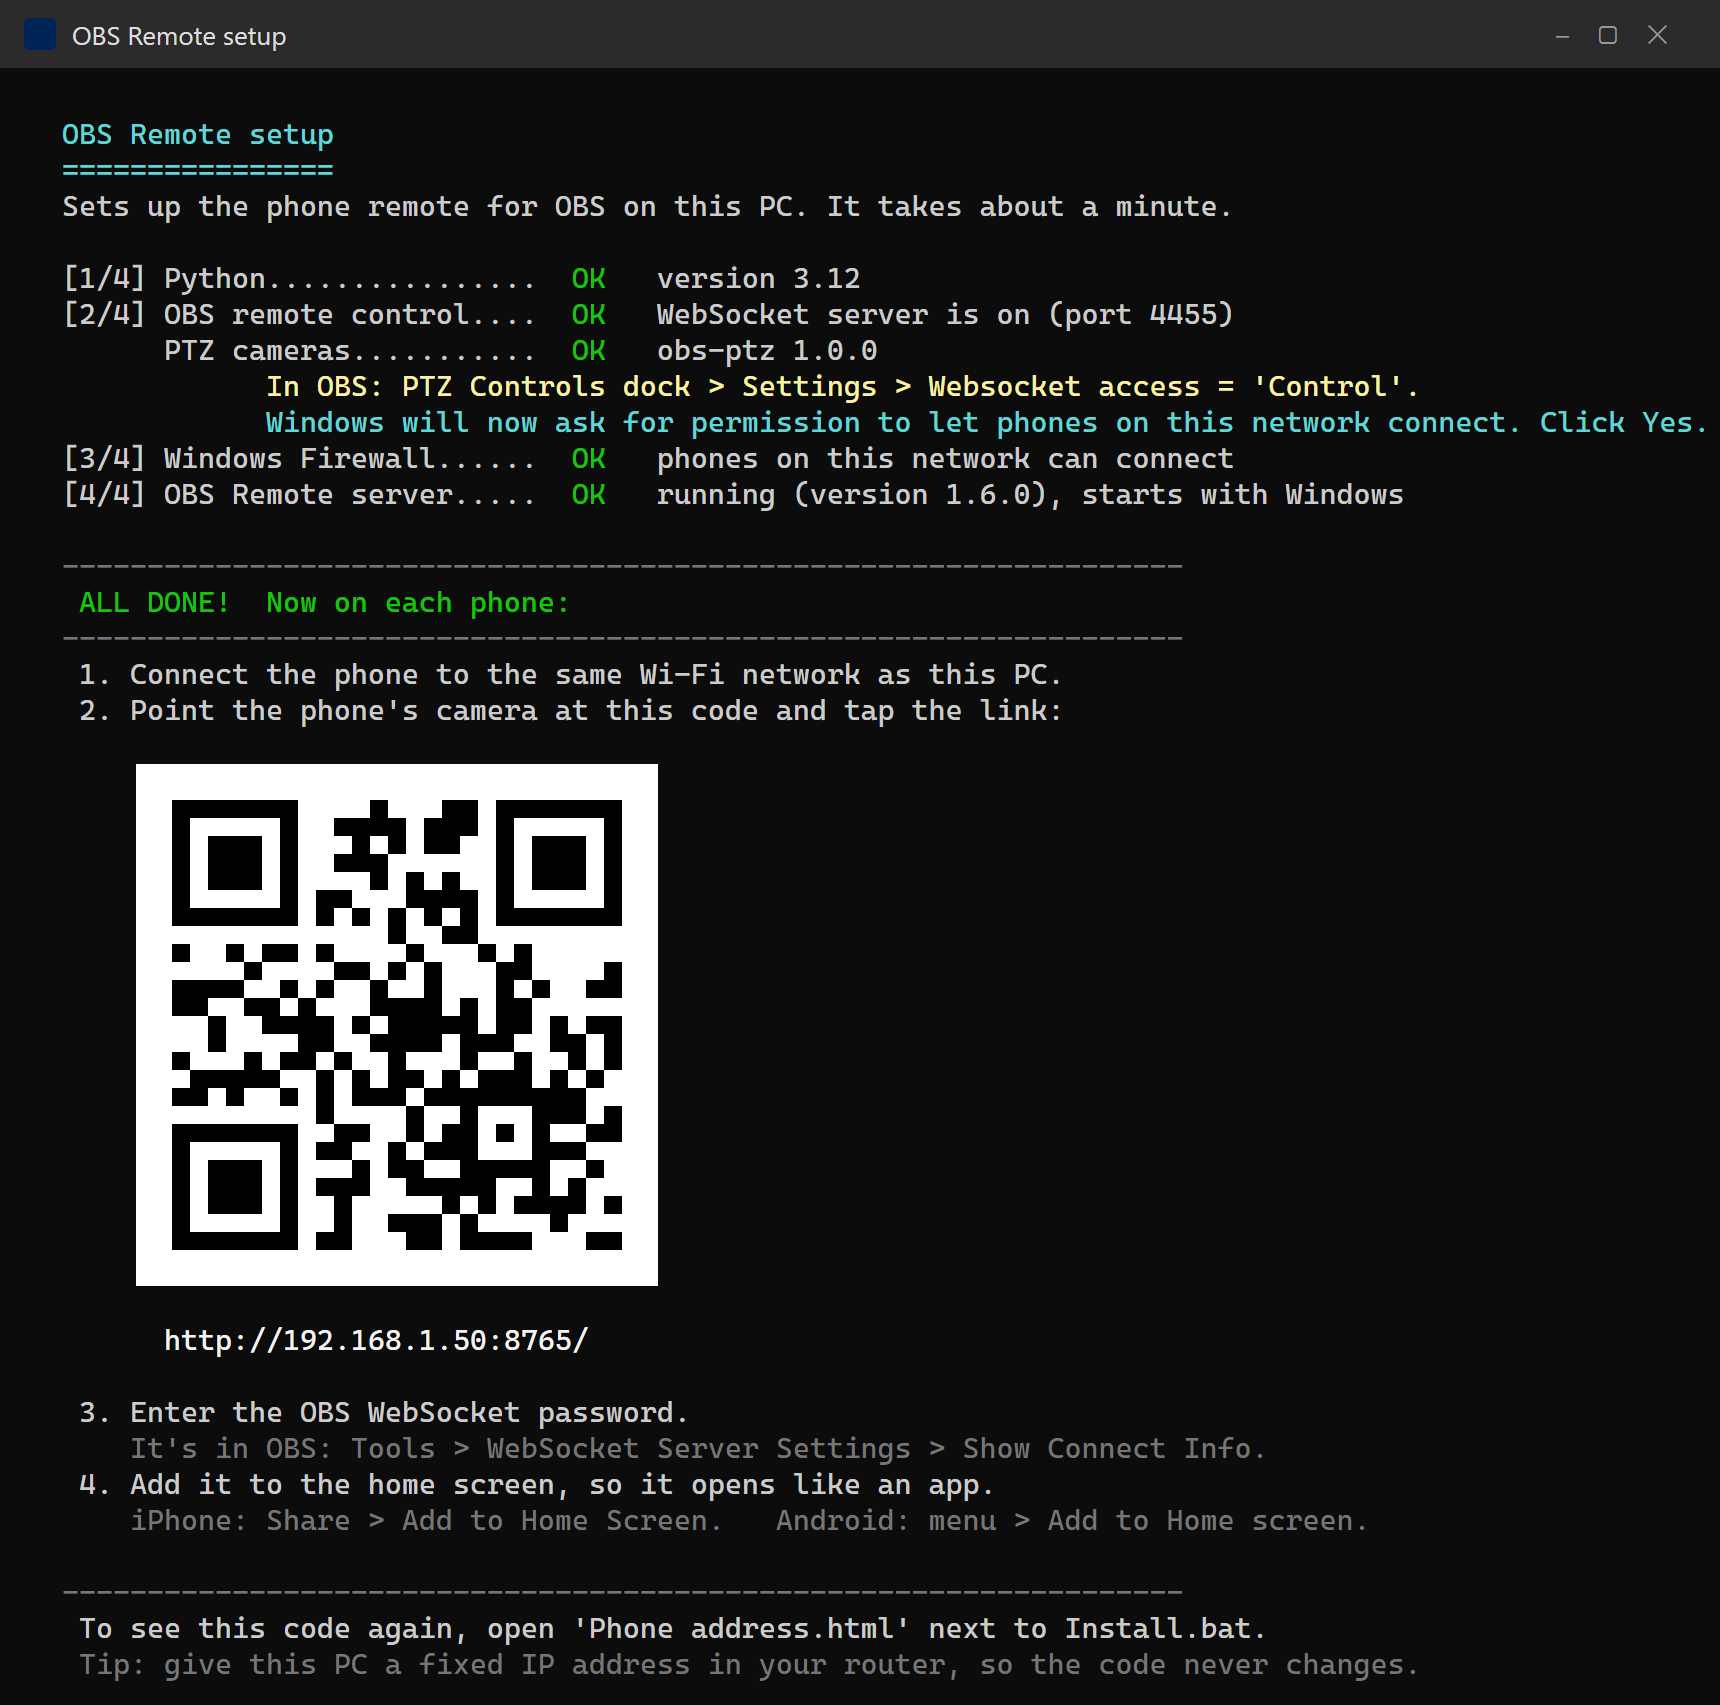
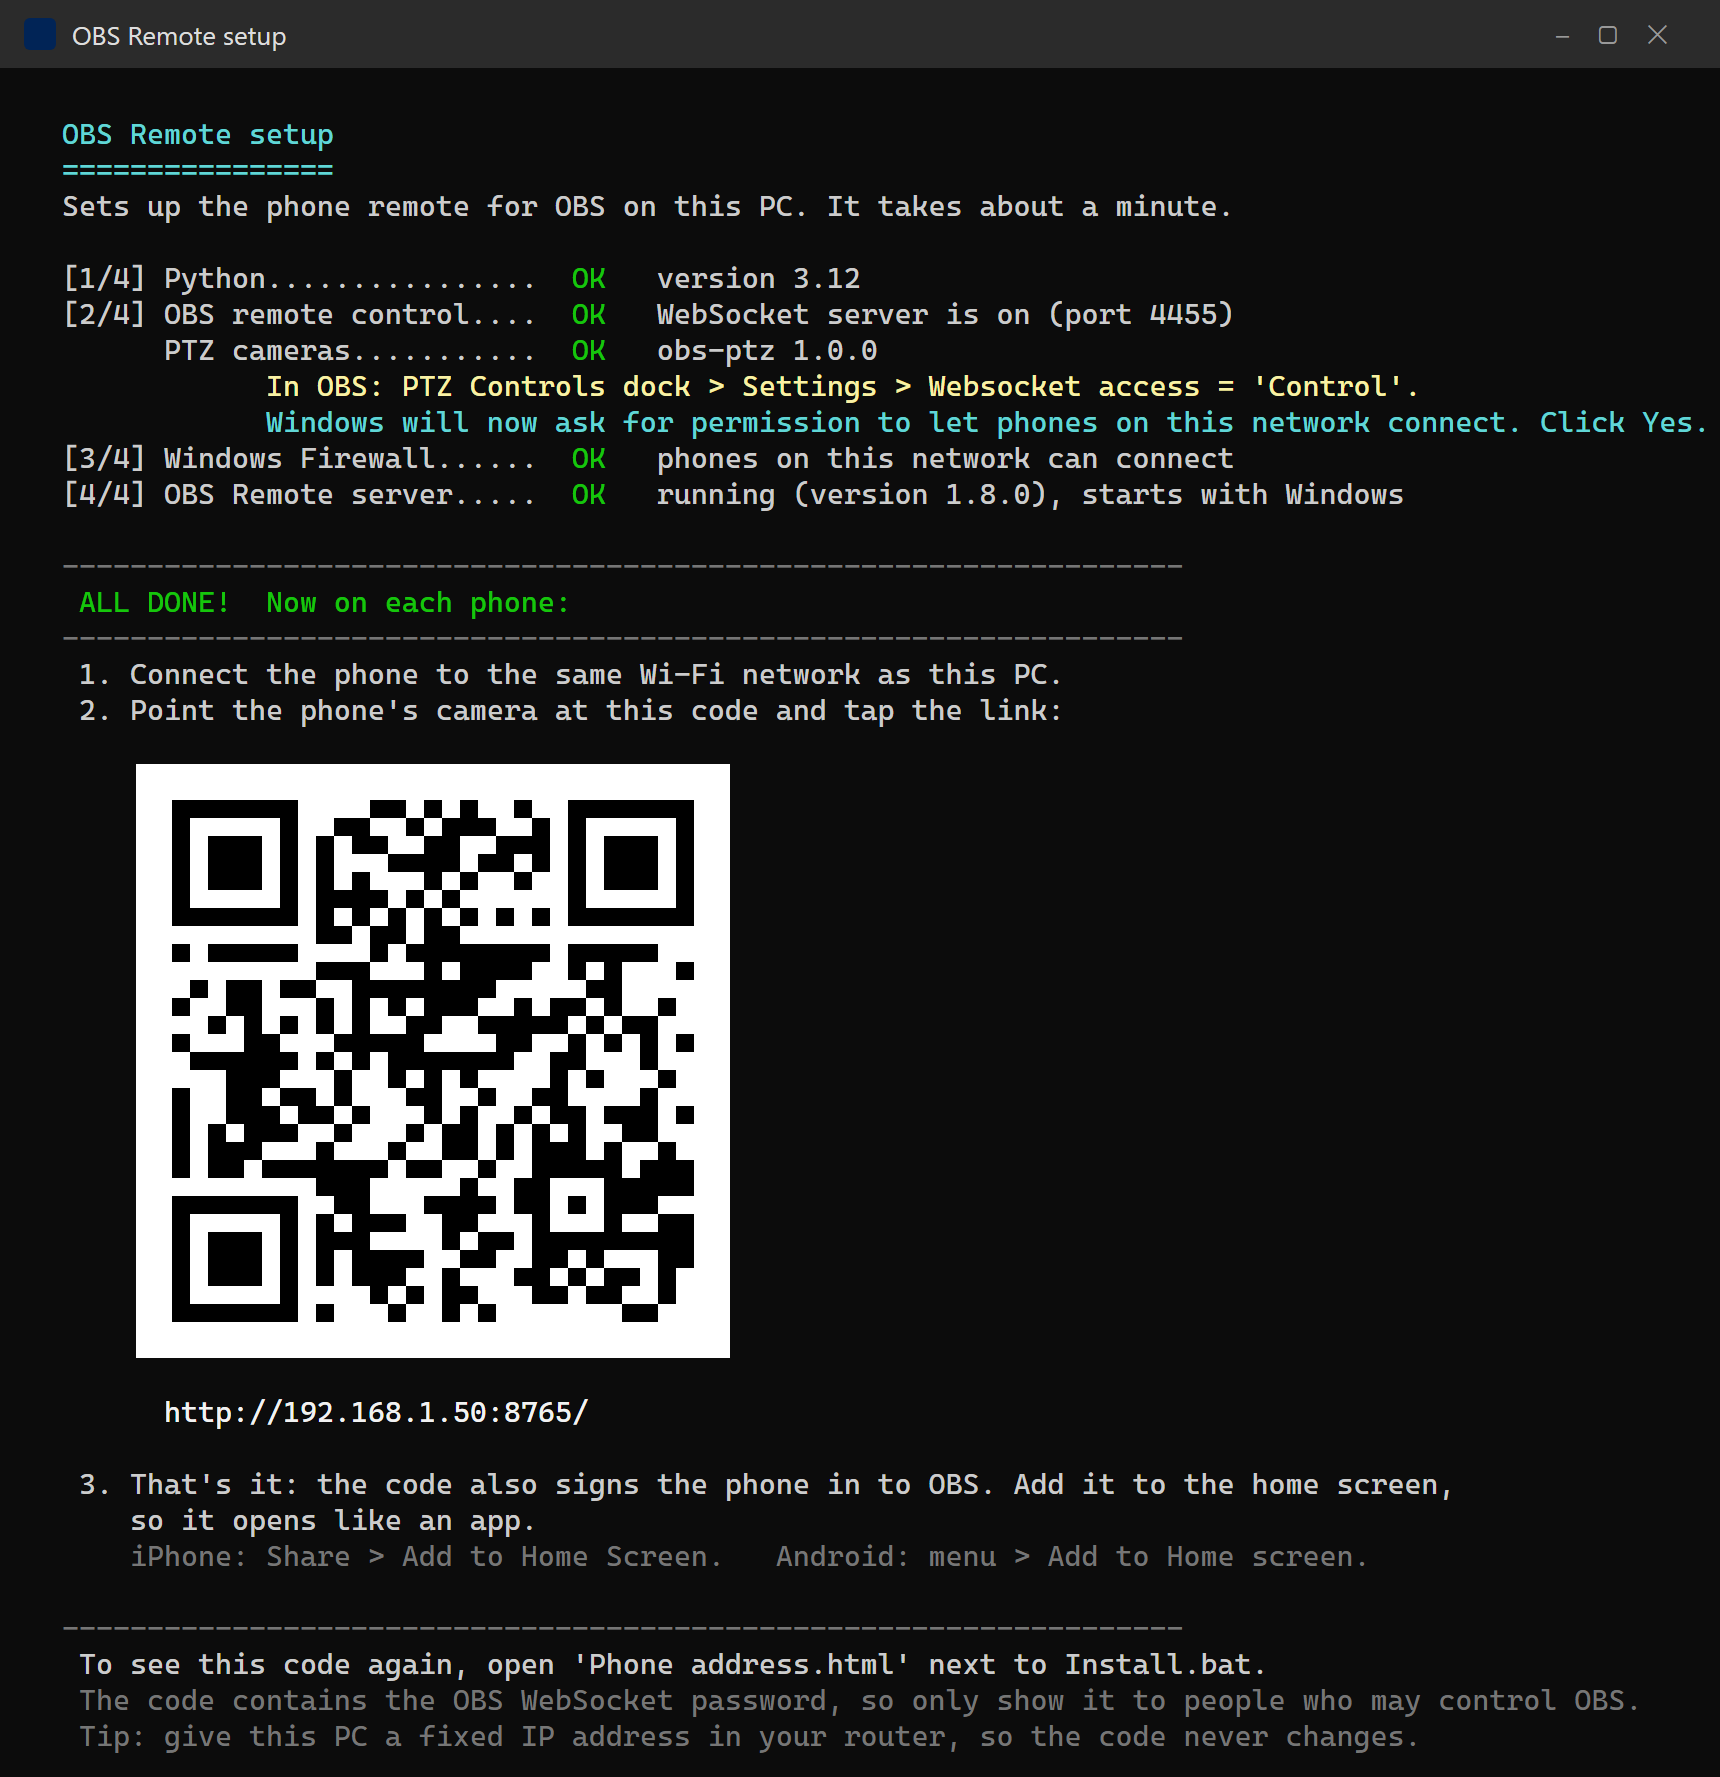
Installer screenshot: one-scan sign-in QR code (obs-remote 1.8.0)

diff --git a/tools/make.py b/tools/make.py
@@ -46,7 +46,7 @@ C = {"Gray": "#cccccc", "DarkGray": "#767676", "Cyan": "#61d6d6", "Green": "#16c
      "Red": "#e74856", "White": "#f2f2f2"}
 
 
-def terminal_page(url="http://192.168.1.50:8765/", version="1.6.0"):
+def terminal_page(url="http://192.168.1.50:8765/", version="1.8.0", login="#pw=demo-password"):
     out = []
     say = lambda t="", c="Gray": out.append(f'<span style="color:{C[c]}">{html.escape(t)}</span>')
     rule = lambda: say("  " + "-" * 66, "DarkGray")
@@ -71,7 +71,7 @@ def terminal_page(url="http://192.168.1.50:8765/", version="1.6.0"):
     say(); rule(); say("   ALL DONE!  Now on each phone:", "Green"); rule()
     say("   1. Connect the phone to the same Wi-Fi network as this PC.")
     say("   2. Point the phone's camera at this code and tap the link:"); say()
-    rows = qr.rows(url)
+    rows = qr.rows(url + login)  # like the real installer, the code also carries a (made-up) OBS login
     cell = 9  # px per module: one character is 1 module wide and 2 modules tall, like the real half-block QR
     svg = (f'<svg width="{len(rows[0]) * cell}" height="{len(rows) * cell}" shape-rendering="crispEdges">'
            f'<rect width="100%" height="100%" fill="#fff"/>'
@@ -79,12 +79,12 @@ def terminal_page(url="http://192.168.1.50:8765/", version="1.6.0"):
                      for y, r in enumerate(rows) for x, c in enumerate(r) if c == "1") + "</svg>")
     out.append('<span class="qr">' + svg + "</span>")
     say(); say(f"        {url}", "White"); say()
-    say("   3. Enter the OBS WebSocket password.")
-    say("      It's in OBS: Tools > WebSocket Server Settings > Show Connect Info.", "DarkGray")
-    say("   4. Add it to the home screen, so it opens like an app.")
+    say("   3. That's it: the code also signs the phone in to OBS. Add it to the home screen,")
+    say("      so it opens like an app.")
     say("      iPhone: Share > Add to Home Screen.   Android: menu > Add to Home screen.", "DarkGray")
     say(); rule()
     say("   To see this code again, open 'Phone address.html' next to Install.bat.")
+    say("   The code contains the OBS WebSocket password, so only show it to people who may control OBS.", "DarkGray")
     say("   Tip: give this PC a fixed IP address in your router, so the code never changes.", "DarkGray"); say()
     body = "\n".join(out)
     page = f"""<!doctype html><meta charset="utf-8"><style>
